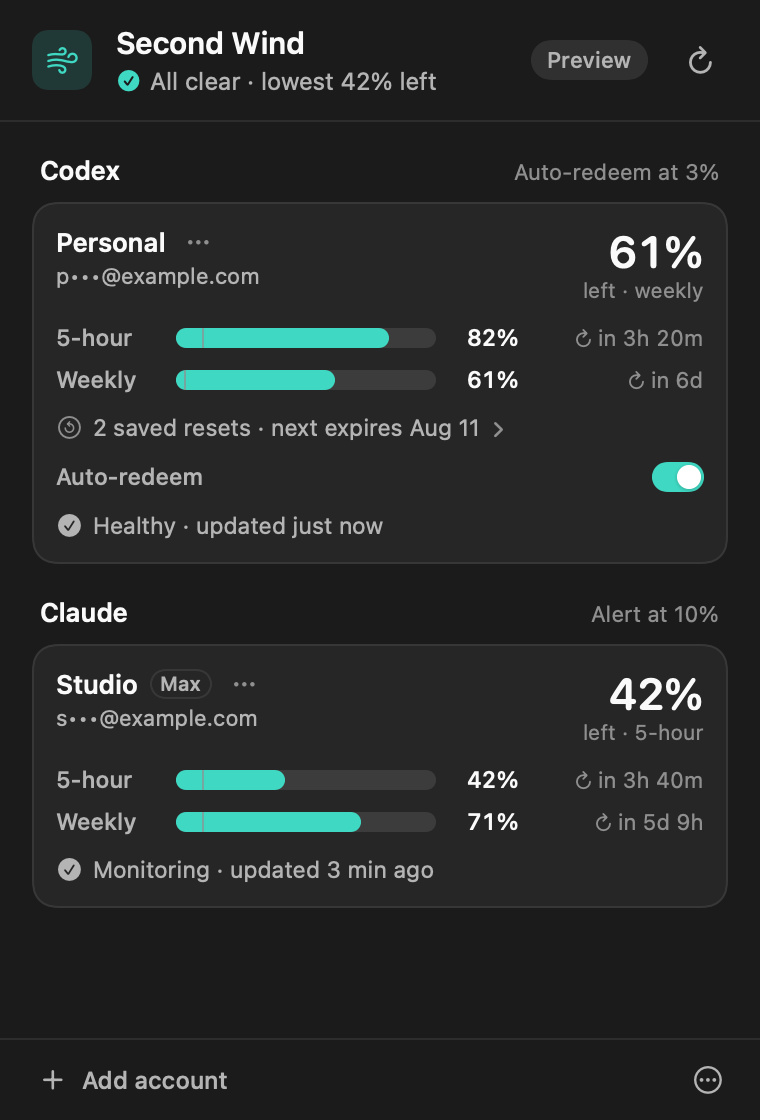
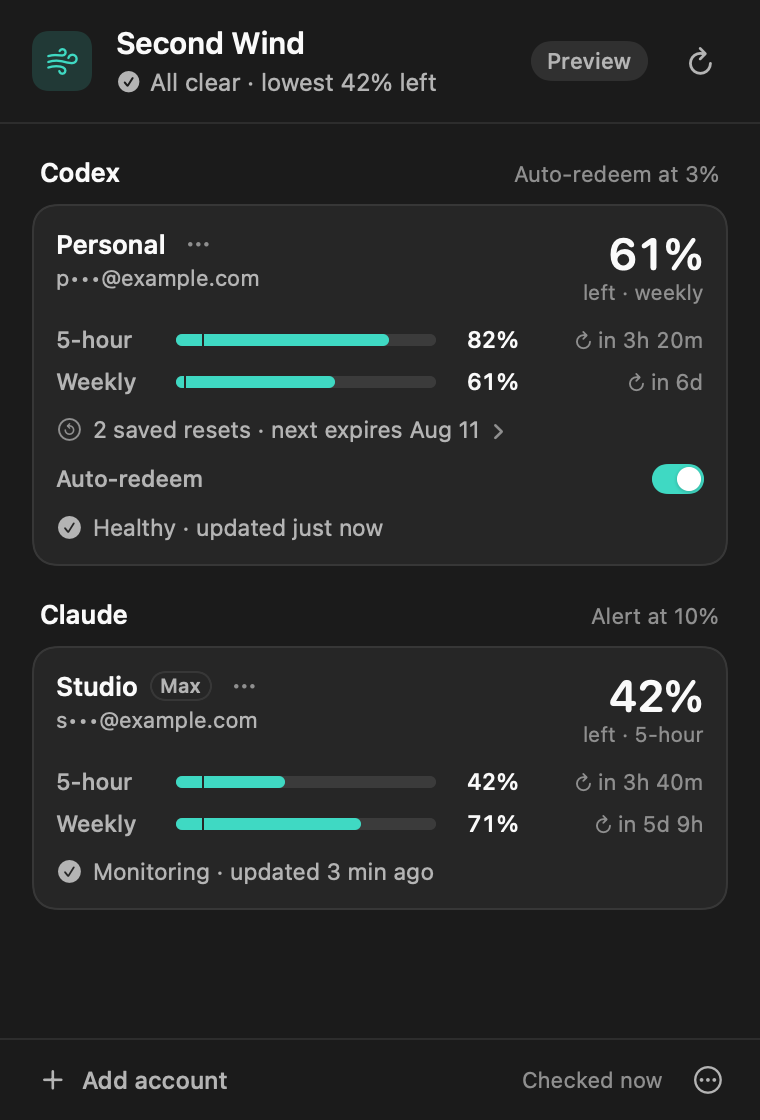
Refresh README and website screenshots for the polished popover

diff --git a/CHANGELOG.md b/CHANGELOG.md
@@ -1,5 +1,14 @@
 # Changelog
 
+## Unreleased
+
+- Clearer popover: warnings keep their message on its own and show the
+  reading's age underneath, every header status has an icon, and the limit
+  marker on each meter reads as a notch instead of a stray line.
+- Light mode is easier to read: stronger teal, amber and red text, and
+  visible off switches, banners and segmented controls.
+- Shorter messages for sign-in, low limits, busy accounts and removal.
+
 ## 0.3.0
 
 - See the five-hour and weekly Codex limits together. Monitor-only accounts
